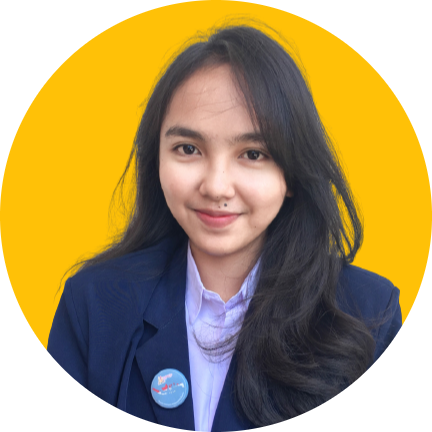
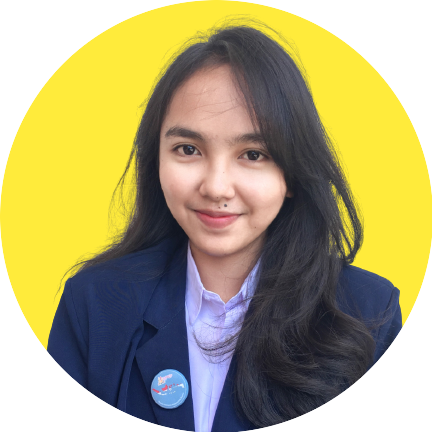
add photo

diff --git a/index.html b/index.html
@@ -97,7 +97,7 @@
           </p>
         </div>
         <div class="grid-item override-rm-shadow">
-          <img class="profile-pic" src="./assets/caracalla.jpg" />
+          <img class="profile-pic" src="./assets/Fadli.png" />
           <h2>Fadli</h2>
           <p>
             Lorem ipsum, dolor sit amet consectetur adipisicing elit. Nulla
